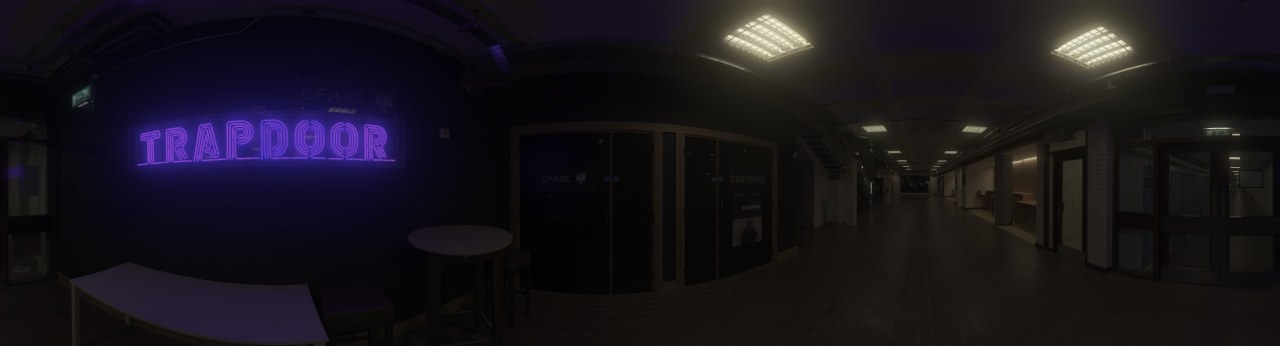
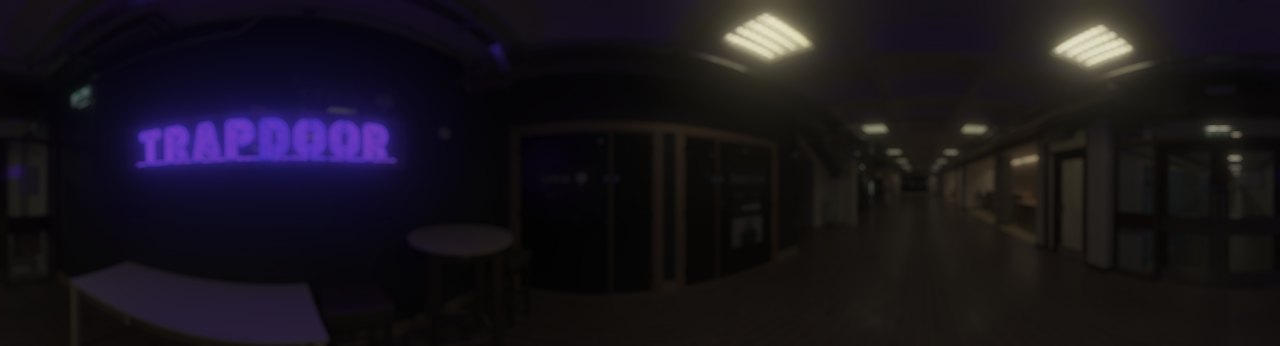
Zoom the reflection in, throw it four times further, and take it out of focus
Three changes, all to the same layer.

ZOOMED. 160vh to 420vh -- about ten times the source image's own width. A pane
now shows a fragment of the room, a couple of lights and the edge of
something, rather than a legible picture of a room. That is all you ever
actually catch in a dark window, and it is what stops the reflection reading
as a photograph pasted behind the glass.

THROWN FURTHER. Parallax from 260/170px to 1100/750px, so the full sweep of
the pointer moves it +/-550px horizontally and +/-375px vertically. The zoom
is what makes this affordable: at 420vh the image is around 14,000px wide on a
900px viewport, so even the increased travel sits inside a margin hundreds of
times larger than the throw and nothing can pull an edge into view.

OUT OF FOCUS, and done properly. Defocus convolves with the shape of the
APERTURE, so the kernel is a disc, not a gaussian -- that hard rim is the
whole reason an out-of-focus highlight reads as bokeh rather than as a smudge.
Radius 3.5px at source, which at this magnification is roughly 35px on screen.

Applied in LINEAR light, before the tonemap. Blurring after tonemapping
averages display values and every highlight collapses into grey mush; blurring
the real energy first means a lamp sitting at 400x white spreads into a disc
that is STILL far above white across its whole face, and then clips to a
hard-edged circle. Same reason the halation is baked before the tonemap.
[…]

diff --git a/src/styles.css b/src/styles.css
@@ -606,10 +606,18 @@
     background-repeat: no-repeat;
     /*
      * Sized against the viewport's HEIGHT, so every pane shares one
-     * magnification whatever shape it is. Large, because a pane is a small
-     * mirror held close: a fragment of the room, magnified.
+     * magnification whatever shape it is. 420vh is about ten times the
+     * source's own width, so what any pane shows is a fragment -- a couple
+     * of lights and an edge of something -- rather than a legible picture of
+     * a room, which is all you ever actually catch in a dark window.
+     *
+     * The defocus is baked into the images, not applied here. `filter:
+     * blur()` on this layer would blur its own clipped boundary as well and
+     * ring every pane with a soft halo. It is also a DISC convolution rather
+     * than a gaussian, done in linear light before tonemapping, which is why
+     * the lamps come out as hard-rimmed bokeh circles instead of smudges.
      */
-    background-size: auto 160vh;
+    background-size: auto 420vh;
     /*
      * Anchored in viewport space, then pulled back by the pane's own offset.
      * That is what makes the reflection continuous: two bands stacked above
@@ -623,8 +631,8 @@
      * The parallax is added once, identically for every pane: one viewer, one
      * reflection moving.
      */
-    background-position: calc(-120vh - var(--pane-x, 0px) + var(--reflect-x, 0) * -260px)
-      calc(-30vh - var(--pane-y, 0px) + var(--reflect-y, 0) * -170px);
+    background-position: calc(-700vh - var(--pane-x, 0px) + var(--reflect-x, 0) * -1100px)
+      calc(-160vh - var(--pane-y, 0px) + var(--reflect-y, 0) * -750px);
     opacity: calc(0.05 + 0.6 * var(--wind, 0));
   }
 
